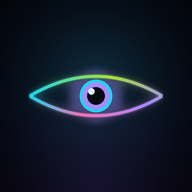
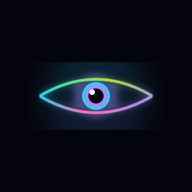
Transiciones suaves entre pantallas y corrección de iconos en pantalla principal
- Transiciones fluidas con View Transitions API y fallback con crossfade para navegadores sin soporte
- Corrección del icono PWA (maskable y estándar): centrado en la zona segura (safe zone) para evitar cortes en Android/iOS
- Nueva cabecera en pantalla principal con fila superior dedicada para evitar que el título comprima o corte los botones
- Bump service worker a v15

Changed region(s): [[0.125, 0.1562, 0.875, 1.0]]

diff --git a/app.js b/app.js
@@ -136,12 +136,35 @@
   }
 
   var lastScreen = null;
+  var inViewTransition = false;
+  var transitionPending = false;
+  var transitionTimer = null;
+  var isInitialRender = true;
 
-  function render() {
+  function prefersReducedMotion() {
+    return !!(window.matchMedia && window.matchMedia('(prefers-reduced-motion: reduce)').matches);
+  }
+
+  function getNavDirection(from, to) {
+    if (to === 'home') return 'back';
+    if (from === 'results' && to === 'setup') return 'back';
+    if (
+      (from === 'reveal' || from === 'reveal-pass' || from === 'debate' ||
+       from === 'vote-pass' || from === 'vote-select' || from === 'tally' ||
+       from === 'elimination' || from === 'tie') &&
+      (to === 'setup' || to === 'home')
+    ) {
+      return 'back';
+    }
+    return 'forward';
+  }
+
+  function render(enterDirection) {
     if (state.screen !== 'debate') {
       stopTimerLoop();
     }
-    if (lastScreen !== state.screen) {
+    var screenChanged = lastScreen !== state.screen;
+    if (screenChanged) {
       window.scrollTo(0, 0);
       lastScreen = state.screen;
     }
@@ -159,11 +182,69 @@
     else if (state.screen === 'results') renderResults();
     refreshSoundIcons();
     persistSession();
+
+    if (!inViewTransition && (screenChanged || isInitialRender) && !prefersReducedMotion()) {
+      var screenEl = appEl.querySelector('.screen');
+      if (screenEl) {
+        var enterClass = enterDirection === 'back' ? 'screen-entering-back' : 'screen-entering';
+        screenEl.classList.add(enterClass);
+      }
+    }
+    isInitialRender = false;
   }
 
-  function setScreen(name) {
+  function setScreen(name, explicitDir) {
+    if (state.screen === name) return;
+    var prevScreen = state.screen;
+    var direction = explicitDir || getNavDirection(prevScreen, name);
+
+    // 1. Native View Transitions API (Chromium, Android WebView, Safari 18+)
+    if (typeof document.startViewTransition === 'function' && !prefersReducedMotion()) {
+      document.documentElement.dataset.transitionDir = direction;
+      inViewTransition = true;
+      try {
+        var transition = document.startViewTransition(function () {
+          state.screen = name;
+          render(direction);
+        });
+        var cleanup = function () {
+          inViewTransition = false;
+          delete document.documentElement.dataset.transitionDir;
+        };
+        if (transition && transition.finished) {
+          transition.finished.then(cleanup, cleanup);
+        } else {
+          cleanup();
+        }
+        return;
+      } catch (err) {
+        inViewTransition = false;
+        delete document.documentElement.dataset.transitionDir;
+      }
+    }
+
+    // 2. Smooth crossfade fallback (Firefox, older iOS Safari)
+    if (!prefersReducedMotion()) {
+      var currentScreenEl = appEl.querySelector('.screen');
+      if (currentScreenEl && !transitionPending) {
+        transitionPending = true;
+        var leaveClass = direction === 'back' ? 'screen-leaving-back' : 'screen-leaving';
+        currentScreenEl.classList.add(leaveClass);
+        clearTimeout(transitionTimer);
+        transitionTimer = setTimeout(function () {
+          transitionPending = false;
+          state.screen = name;
+          render(direction);
+        }, 130);
+        return;
+      }
+    }
+
+    // 3. Direct render
+    transitionPending = false;
+    clearTimeout(transitionTimer);
     state.screen = name;
-    render();
+    render(direction);
   }
 
   var Sound = {
@@ -485,16 +566,17 @@
     var historyCount = historyEntries.length;
     appEl.innerHTML =
       '<section class="screen">' +
-        '<header class="flex items-start justify-between gap-3 pt-1">' +
-          '<div class="min-w-0 flex-1">' +
-            '<p class="label text-cyan-300/70">Pass &amp; Play</p>' +
-            '<h1 class="neon-title font-display text-[clamp(30px,10.5vw,42px)] font-black leading-[0.92] mt-2">EL<br>INFILTRADO</h1>' +
-            '<p class="text-sm text-slate-400 mt-3 max-w-[280px]">Descubre al impostor antes de que te elimine.</p>' +
-          '</div>' +
-          '<div class="flex flex-none gap-2">' +
+        '<div class="flex items-center justify-between gap-3 pt-1">' +
+          '<p class="label text-cyan-300/70">Pass &amp; Play</p>' +
+          '<div class="flex items-center gap-2">' +
             '<button type="button" data-action="show-rules" class="icon-btn" aria-label="Cómo jugar">' + ICONS.help + '</button>' +
             soundButton() +
           '</div>' +
+        '</div>' +
+
+        '<header class="mt-3">' +
+          '<h1 class="neon-title font-display text-[clamp(32px,10.5vw,44px)] font-black leading-[0.92]">EL<br>INFILTRADO</h1>' +
+          '<p class="text-sm text-slate-400 mt-2.5 max-w-[280px]">Descubre al impostor antes de que te elimine.</p>' +
         '</header>' +
 
         '<div class="grid grid-cols-3 gap-2 mt-6">' +
@@ -1477,7 +1559,7 @@
     pendingAccuseId = null;
     state.game = null;
     state.hold = null;
-    setScreen('setup');
+    setScreen('setup', 'back');
     toast('Partida abandonada');
   }
 
@@ -1621,7 +1703,7 @@
         openRules();
         break;
       case 'open-history':
-        setScreen('history');
+        setScreen('history', 'forward');
         break;
       case 'go-home':
         clearTimeout(state.tallyTimer);
@@ -1629,7 +1711,7 @@
         stopTimerLoop();
         state.hold = null;
         state.game = null;
-        setScreen('home');
+        setScreen('home', 'back');
         break;
       case 'delete-history':
         openHistoryDeleteModal(el.dataset.id);
@@ -1745,7 +1827,7 @@
         break;
       case 'new-game':
         state.game = null;
-        setScreen('setup');
+        setScreen('setup', state.screen === 'results' ? 'back' : 'forward');
         break;
       default:
         break;

diff --git a/styles.css b/styles.css
@@ -10,6 +10,7 @@
   --amber: #fbbf24;
   --danger: #fb7185;
   color-scheme: dark;
+  view-transition-name: none;
 }
 
 * {
@@ -97,28 +98,179 @@ button {
   padding-right: calc(var(--gutter) + env(safe-area-inset-right));
   display: flex;
   flex-direction: column;
+  view-transition-name: app-screen;
 }
+
+/* ==========================================================================
+   Screen Containers & Transitions
+   ========================================================================== */
 
 .screen {
   display: flex;
   flex-direction: column;
   flex: 1;
   min-height: 0;
-  animation: screen-in 0.38s cubic-bezier(0.2, 0.8, 0.2, 1) both;
+  will-change: transform, opacity;
 }
 
 .screen-fit {
   overflow: hidden;
 }
 
+/* Fallback transitions (browsers without View Transitions API) */
+.screen.screen-entering {
+  animation: screen-in 0.26s cubic-bezier(0.16, 1, 0.3, 1) both;
+}
+
+.screen.screen-entering-back {
+  animation: screen-in-back 0.26s cubic-bezier(0.16, 1, 0.3, 1) both;
+}
+
+.screen.screen-leaving {
+  animation: screen-out 0.14s cubic-bezier(0.4, 0, 0.8, 1) both;
+  pointer-events: none;
+}
+
+.screen.screen-leaving-back {
+  animation: screen-out-back 0.14s cubic-bezier(0.4, 0, 0.8, 1) both;
+  pointer-events: none;
+}
+
 @keyframes screen-in {
   from {
     opacity: 0;
-    transform: translateY(12px);
+    transform: translateY(12px) scale(0.985);
   }
   to {
     opacity: 1;
     transform: none;
+  }
+}
+
+@keyframes screen-out {
+  from {
+    opacity: 1;
+    transform: none;
+  }
+  to {
+    opacity: 0;
+    transform: translateY(-8px) scale(0.985);
+  }
+}
+
+@keyframes screen-in-back {
+  from {
+    opacity: 0;
+    transform: translateY(-10px) scale(0.985);
+  }
+  to {
+    opacity: 1;
+    transform: none;
+  }
+}
+
+@keyframes screen-out-back {
+  from {
+    opacity: 1;
+    transform: none;
+  }
+  to {
+    opacity: 0;
+    transform: translateY(10px) scale(0.985);
+  }
+}
+
+/* ==========================================================================
+   Native View Transitions API (Modern smooth morphing & crossfade)
+   ========================================================================== */
+
+::view-transition-group(app-screen) {
+  animation-duration: 0.28s;
+  animation-timing-function: cubic-bezier(0.16, 1, 0.3, 1);
+  overflow: clip;
+}
+
+::view-transition-image-pair(app-screen) {
+  isolation: isolate;
+}
+
+::view-transition-old(app-screen),
+::view-transition-new(app-screen) {
+  height: 100%;
+  width: 100%;
+  mix-blend-mode: normal;
+  backface-visibility: hidden;
+  transform-origin: 50% 30%;
+}
+
+/* Forward navigation */
+html:not([data-transition-dir="back"])::view-transition-old(app-screen) {
+  animation: vt-screen-out 0.2s cubic-bezier(0.4, 0, 0.7, 1) both;
+}
+
+html:not([data-transition-dir="back"])::view-transition-new(app-screen) {
+  animation: vt-screen-in 0.28s cubic-bezier(0.16, 1, 0.3, 1) both;
+}
+
+/* Back navigation */
+html[data-transition-dir="back"]::view-transition-old(app-screen) {
+  animation: vt-screen-out-back 0.18s cubic-bezier(0.4, 0, 0.7, 1) both;
+}
+
+html[data-transition-dir="back"]::view-transition-new(app-screen) {
+  animation: vt-screen-in-back 0.26s cubic-bezier(0.16, 1, 0.3, 1) both;
+}
+
+/* Fallback for engines matching root */
+::view-transition-old(root) {
+  animation: vt-screen-out 0.2s cubic-bezier(0.4, 0, 0.7, 1) both;
+}
+
+::view-transition-new(root) {
+  animation: vt-screen-in 0.28s cubic-bezier(0.16, 1, 0.3, 1) both;
+}
+
+@keyframes vt-screen-out {
+  0% {
+    opacity: 1;
+    transform: translateY(0) scale(1);
+  }
+  100% {
+    opacity: 0;
+    transform: translateY(-8px) scale(0.985);
+  }
+}
+
+@keyframes vt-screen-in {
+  0% {
+    opacity: 0;
+    transform: translateY(12px) scale(0.985);
+  }
+  100% {
+    opacity: 1;
+    transform: translateY(0) scale(1);
+  }
+}
+
+@keyframes vt-screen-out-back {
+  0% {
+    opacity: 1;
+    transform: translateY(0) scale(1);
+  }
+  100% {
+    opacity: 0;
+    transform: translateY(10px) scale(0.985);
+  }
+}
+
+@keyframes vt-screen-in-back {
+  0% {
+    opacity: 0;
+    transform: translateY(-10px) scale(0.985);
+  }
+  100% {
+    opacity: 1;
+    transform: translateY(0) scale(1);
   }
 }
 
@@ -174,6 +326,11 @@ button {
   border: 1px solid var(--line);
   color: #cbd5e1;
   transition: transform 0.16s ease, background 0.2s ease, color 0.2s ease;
+}
+
+.icon-btn svg {
+  overflow: visible;
+  flex-shrink: 0;
 }
 
 .icon-btn:active {
@@ -1166,5 +1323,10 @@ button {
     animation-duration: 0.01ms !important;
     animation-iteration-count: 1 !important;
     transition-duration: 0.01ms !important;
+  }
+  ::view-transition-group(*),
+  ::view-transition-old(*),
+  ::view-transition-new(*) {
+    animation: none !important;
   }
 }

diff --git a/sw.js b/sw.js
@@ -1,4 +1,4 @@
-var VERSION = 'v13';
+var VERSION = 'v15';
 var SHELL_CACHE = 'infiltrado-shell-' + VERSION;
 var RUNTIME_CACHE = 'infiltrado-runtime-' + VERSION;
 var BASE = new URL('./', self.location.href).href;
